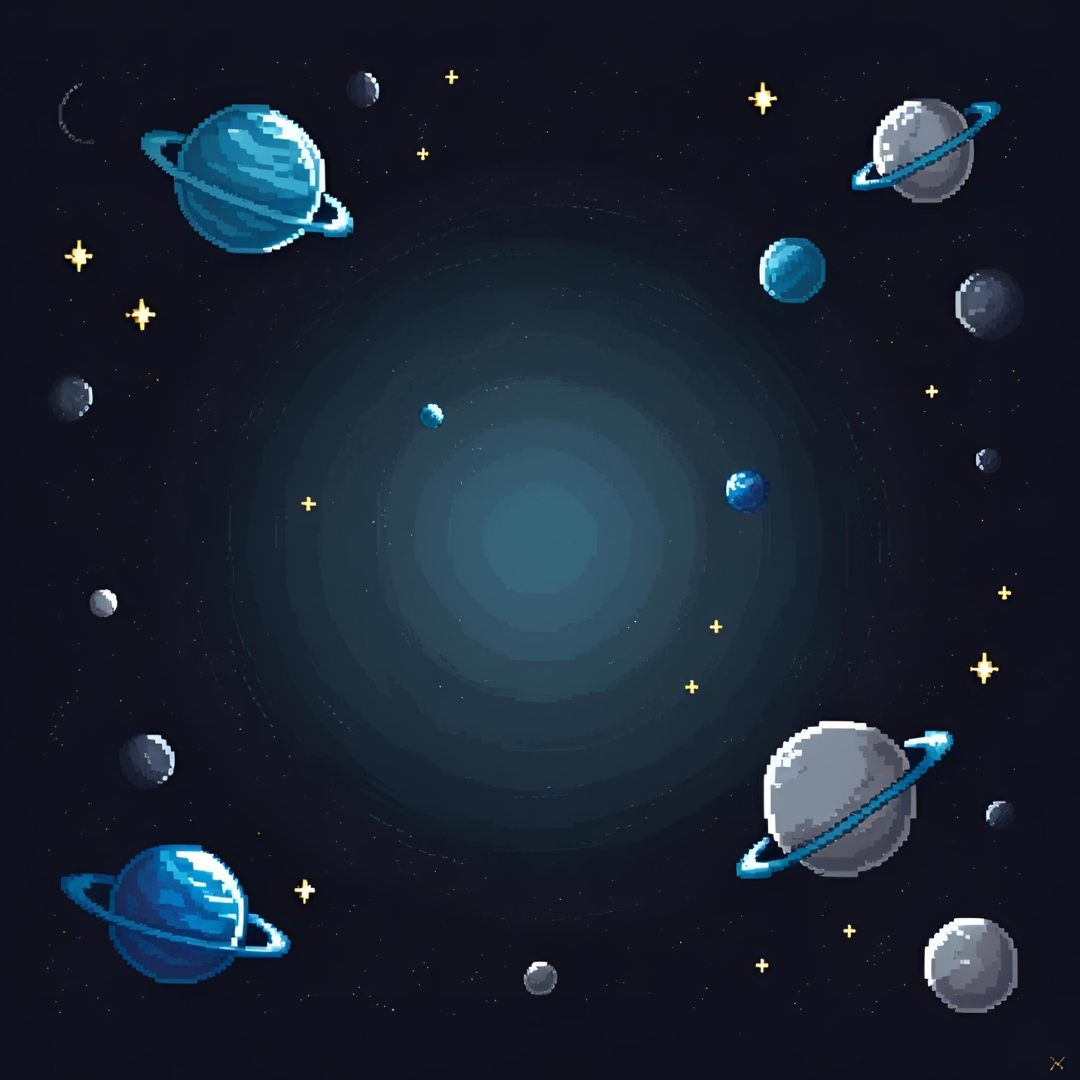
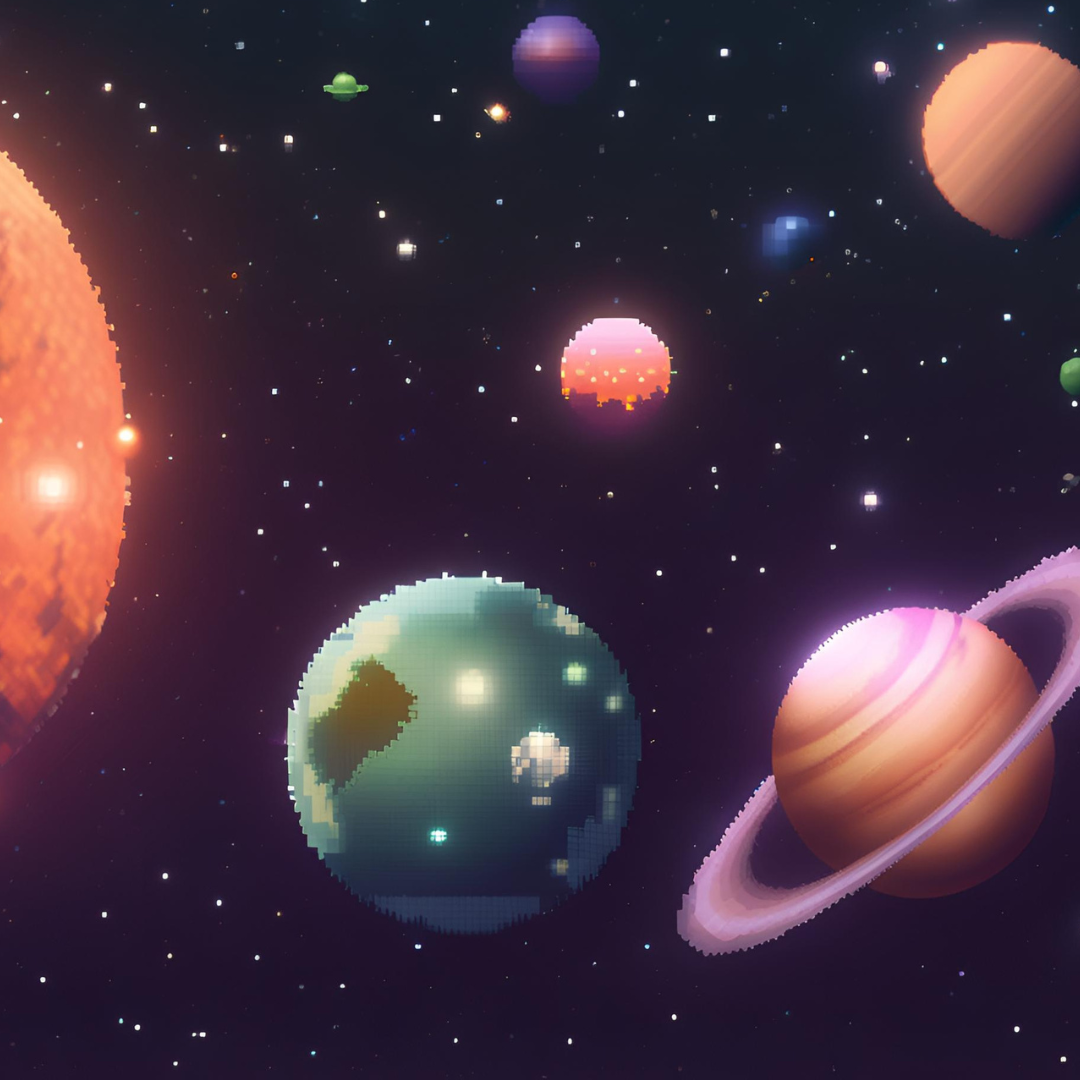
scrollpane

diff --git a/FXInterface/src/main/resources/com/example/interfacegraphique/css/style.css b/FXInterface/src/main/resources/com/example/interfacegraphique/css/style.css
@@ -96,6 +96,7 @@
 
 #sideScrollPane {
     -fx-background-image: url("../../../../images/scrollpane.png");
+    -fx-background-radius: 50;        /*Coins arrondis*/ 
     -fx-background-repeat: no-repeat;
     -fx-background-size: cover;
     -fx-background-position: center center;
